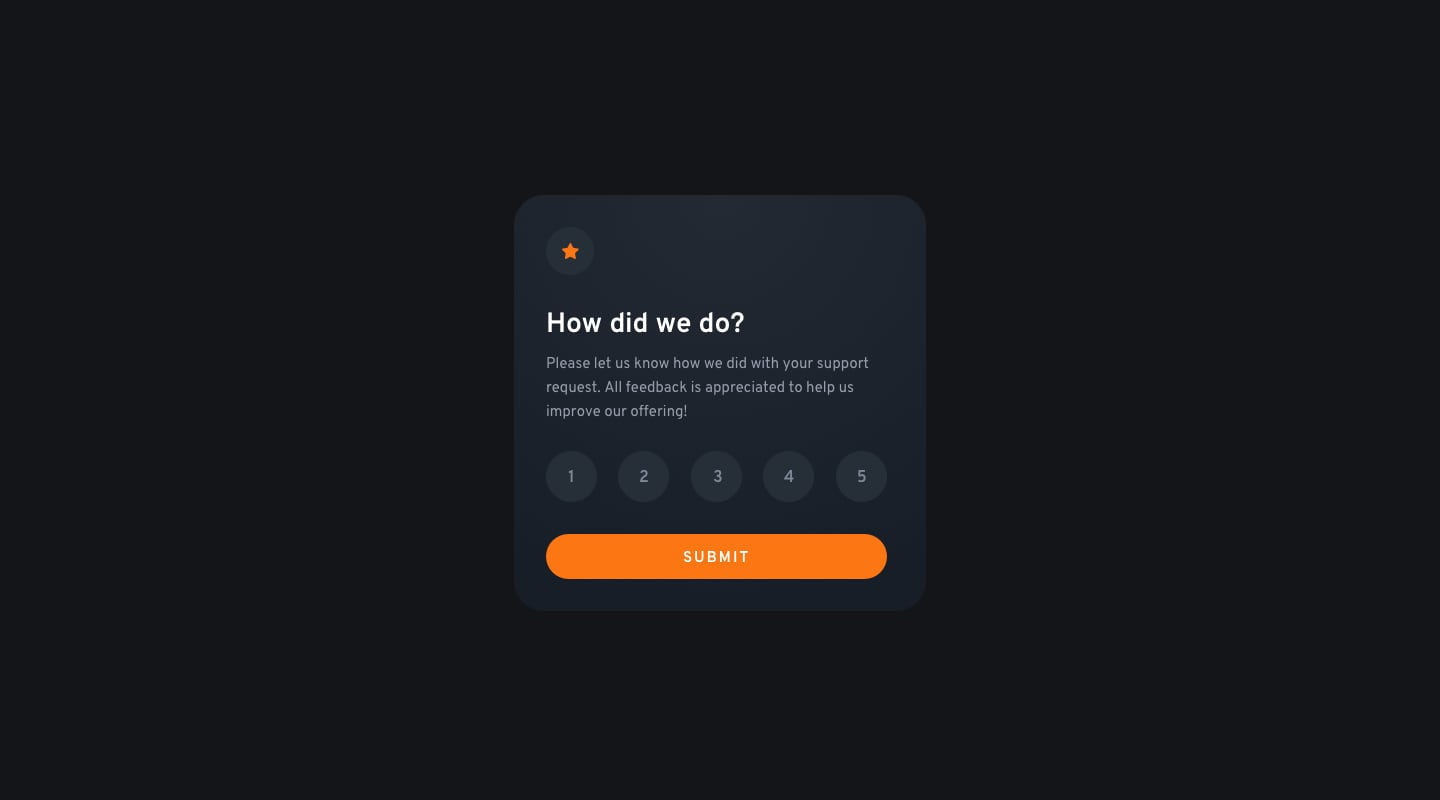
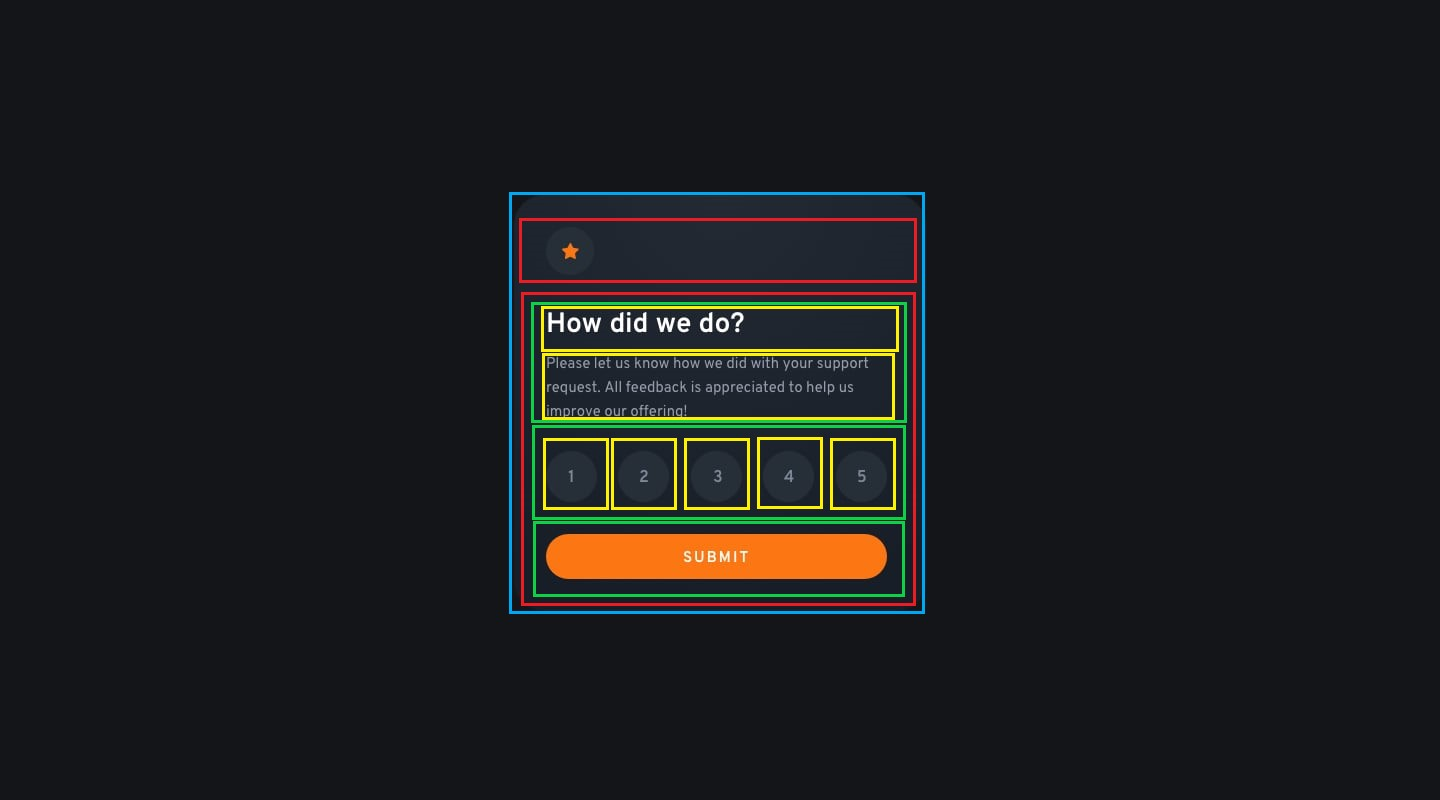
Save
Mostly did the styling for the rating state.

Changed region(s): [[0.3438, 0.2188, 0.6562, 0.7812]]

diff --git a/style.css b/style.css
@@ -1,0 +1,155 @@
+@import url('https://fonts.googleapis.com/css2?family=Overpass:wght@400;700&display=swap');
+
+:root {
+    /* Primary */
+    --orange: 25, 97%, 53%;
+    
+    /* Neutral */
+    --white: 0, 0%, 100%;
+    --light-gray: 217, 12%, 63%;
+    --medium-gray: 216, 12%, 54%;
+    --dark-blue: 213, 19%, 18%;
+    --very-dark-blue: 216, 12%, 8%;
+}
+
+* {
+    font-family: 'Overpass', sans-serif;
+    box-sizing: border-box;
+    margin: 0;
+    padding: 0;
+}
+
+body {
+    min-height: 100vh;
+    display: grid;
+    place-items: center;
+    background-color: black;
+}
+
+.flex-col {
+    display: flex;
+    flex-direction: column;
+    gap: 2rem;
+}
+
+.small-gap {
+    gap: 1.5rem;
+}
+
+.large-gap {
+    gap: 2.5rem;
+}
+
+@media screen and (max-width: 500px) {
+    .flex-col {
+        gap: 1.5rem;
+    }
+
+    .small-gap {
+        gap: 1rem;
+    }
+
+    .large-gap {
+        gap: 1.5rem;
+    }
+}
+
+.rating-component {
+    color: hsl(var(--white));
+    background: radial-gradient(circle at top, hsl(var(--dark-blue)), hsl(var(--very-dark-blue)));
+    border-radius: 1rem;
+    max-width: 26rem;
+    padding: 2rem;
+
+    margin-inline: 2rem;
+}
+
+@media screen and (max-width: 500px) {
+    .rating-component {
+        padding: 1.5rem;
+    }
+}
+
+.star {
+    background-image: url("./images/icon-star.svg");
+    background-repeat: no-repeat;
+    background-position: center;
+}
+
+.circle {
+    width: 3rem;
+    height: 3rem;
+    border-radius: 1.5rem;
+    aspect-ratio: 1 / 1;
+
+    background-color: hsl(var(--dark-blue));
+}
+
+@media screen and (max-width: 500px) {
+    .circle {
+        height: 2.5rem;
+        width: 2.5rem;
+    }
+}
+
+h1 {
+    font-size: 1.8rem;
+    font-weight: 700;
+}
+
+p {
+    font-size: 1rem;
+    font-weight: 400;
+    color: hsl(var(--medium-gray));
+}
+
+.number-container {
+    display: flex;
+    justify-content: space-between;
+}
+
+.number {
+    display: grid;
+    place-items: center;
+    color: hsl(var(--light-gray));
+    cursor: pointer;
+}
+
+@media screen and (max-width: 500px) {
+    .number {
+        font-size: 0.875rem;
+    }
+}
+
+.number.active {
+    background-color: hsl(var(--light-gray));
+    color: hsl(var(--white));
+}
+
+.number:hover, .number:focus-visible {
+    color: hsl(var(--white));
+    background-color: hsl(var(--orange));
+}
+
+button {
+    outline: none;
+    cursor: pointer;
+    border: none;
+    font: inherit;
+    color: inherit;
+}
+
+.button-submit {
+    background-color: hsl(var(--orange));
+    letter-spacing: 0.2rem;
+    text-transform: uppercase;
+    
+    padding: 0.625rem;
+    border-radius: 2rem;
+    font-weight: 700;
+}
+
+.button-submit:hover, .button-submit:focus-visible {
+    background-color: hsl(var(--white));
+    color: hsl(var(--orange));
+}

diff --git a/index.html b/index.html
@@ -2,48 +2,63 @@
 <html lang="en">
 <head>
   <meta charset="UTF-8">
-  <meta name="viewport" content="width=device-width, initial-scale=1.0"> <!-- displays site properly based on user's device -->
+  <meta name="viewport" content="width=device-width, initial-scale=1.0">
 
   <link rel="icon" type="image/png" sizes="32x32" href="./images/favicon-32x32.png">
   
   <title>Frontend Mentor | Interactive rating component</title>
 
-  <!-- Feel free to remove these styles or customise in your own stylesheet 👍 -->
-  <style>
-    .attribution { font-size: 11px; text-align: center; }
-    .attribution a { color: hsl(228, 45%, 44%); }
-  </style>
+  <link rel="stylesheet" href="style.css">
 </head>
 <body>
+  <main>
 
-  <!-- Rating state start -->
+    <div class="rating-component number-state flex-col large-gap">
+      <div class="circle star">
+      </div>
+      <div class="flex-col">
+        <div class="flex-col small-gap">
+          <h1>
+            How did we do?
+          </h1>
+          <p>
+            Please let us know how we did with your support request. All feedback is appreciated 
+to help us improve our offering!
+          </p>
+        </div>
+        <div class="number-container">
+          <div class="circle number">
+            1
+          </div>
+          <div class="circle number">
+            2
+          </div>
+          <div class="circle number">
+            3
+          </div>
+          <div class="circle number active">
+            4
+          </div>
+          <div class="circle number">
+            5
+          </div>
+        </div>
+        <button class="button-submit">Submit</button>
+      </div>
+    </div>
 
-  How did we do?
-
-  Please let us know how we did with your support request. All feedback is appreciated 
-  to help us improve our offering!
-
-  1 2 3 4 5
-
-  Submit
-
-  <!-- Rating state end -->
+  </main>
 
   <!-- Thank you state start -->
 
-  You selected <!-- Add rating here --> out of 5
+  <!-- You selected 2 out of 5
 
   Thank you!
 
   We appreciate you taking the time to give a rating. If you ever need more support, 
-  don’t hesitate to get in touch!
+  don’t hesitate to get in touch! -->
 
   <!-- Thank you state end -->
-
-  
-  <div class="attribution">
-    Challenge by <a href="https://www.frontendmentor.io?ref=challenge" target="_blank">Frontend Mentor</a>. 
-    Coded by <a href="#">Your Name Here</a>.
-  </div>
+  <script src="script.js"></script>
 </body>
 </html>
